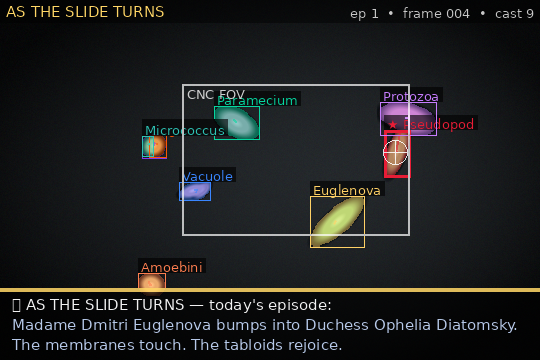
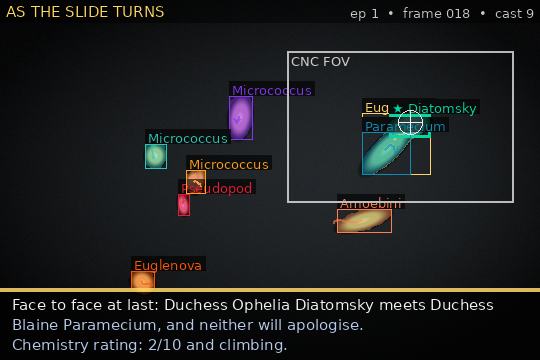
Iteration 17: FastSAM actually runs — SAM at ~11 fps on CPU
The brief's marquee ("SAM equivalent, locally, near real-time") was deferred as
GPU/weights-blocked, but the block was mostly a wiring bug. models/FastSAM-s.pt
was a 195-byte GitHub-403 error stub, and the backend passed bare names to
ultralytics, which auto-downloads from GitHub releases (proxy-blocked) instead
of using the real local weight.

Fixes:
- sam_backend.resolve_weight(): use a real local file, else look in models/,
  else fetch from HuggingFace (size-guarded so error stubs are rejected). Wired
  into every ultralytics/SAM constructor.
- Pulled real FastSAM-s.pt from HF (Uminosachi/FastSAM) into models/ (ignored).
- scripts/fetch_sam_weights.py for reproducibility; dropped the stale
  "SAM ~0.03 fps" scare from the run CLI.

Measured (CPU, 360x540): FastSAM-s one-pass segmentation is ~500x faster than
MobileSAM/SAM everything-mode AMG (0.03 fps): 14.4 fps @ imgsz 384, 22.8 @ 256.
Full pipeline seed 7: FastSAM 11.5 fps @ 384 with recall 0.96 (on par with
classical's 0.95) — near-real-time SAM on a laptop CPU, no GPU. Classical stays
the scored default (higher fps/tighter frag); SAM is now genuinely usable.
70 tests green. Proof: docs/sam_demo.png (FastSAM masks -> named cast -> CNC
crosshair on the star).

Claude-Session: https://claude.ai/code/session_016HNXJX22uBGXumv2EKdbwE

diff --git a/soapscope/vision/sam_backend.py b/soapscope/vision/sam_backend.py
@@ -11,9 +11,64 @@ and raises a clear, actionable error if none is available.
 
 from __future__ import annotations
 
-from typing import List
+import os
+from typing import List, Optional
 
 import numpy as np
+
+# Known SAM-family weights and where to pull them on HuggingFace. The agent proxy
+# allows HF but blocks GitHub release assets (403), which is exactly where
+# ultralytics tries to auto-download — so a bare "FastSAM-s.pt" fetch fails. We
+# resolve to a local file in models/ first, then fetch from HF into models/.
+_HF_WEIGHTS = {
+    "fastsam-s.pt": [("Uminosachi/FastSAM", "FastSAM-s.pt"),
+                     ("mkshing/FastSAM", "FastSAM-s.pt")],
+    "fastsam-x.pt": [("Uminosachi/FastSAM", "FastSAM-x.pt"),
+                     ("mkshing/FastSAM", "FastSAM-x.pt")],
+    "mobile_sam.pt": [("dhkim2810/MobileSAM", "mobile_sam.pt"),
+                      ("Uminosachi/MobileSAM", "mobile_sam.pt")],
+}
+_MODELS_DIR = "models"
+_MIN_WEIGHT_BYTES = 100_000   # reject error-page stubs (e.g. the 403 JSON blob)
+
+
+def resolve_weight(name: str) -> str:
+    """Turn a bare weight name into a real local path, fetching from HF if needed.
+
+    ultralytics would auto-download from GitHub releases (proxy-blocked, 403), so
+    we (1) use ``name`` if it already points at a real file, (2) look in
+    ``models/``, (3) fetch from HuggingFace into ``models/``. Falls through to the
+    original name if all else fails (lets ultralytics raise its own error)."""
+    if os.path.isfile(name) and os.path.getsize(name) >= _MIN_WEIGHT_BYTES:
+        return name
+    base = os.path.basename(name)
+    local = os.path.join(_MODELS_DIR, base)
+    if os.path.isfile(local) and os.path.getsize(local) >= _MIN_WEIGHT_BYTES:
+        return local
+    fetched = _fetch_from_hf(base)
+    return fetched or name
+
+
+def _fetch_from_hf(basename: str) -> Optional[str]:
+    repos = _HF_WEIGHTS.get(basename.lower())
+    if not repos:
+        return None
+    try:
+        from huggingface_hub import hf_hub_download
+    except Exception:
+        return None
+    os.makedirs(_MODELS_DIR, exist_ok=True)
+    dest = os.path.join(_MODELS_DIR, basename)
+    for repo_id, filename in repos:
+        try:
+            path = hf_hub_download(repo_id=repo_id, filename=filename)
+            if os.path.getsize(path) >= _MIN_WEIGHT_BYTES:
+                import shutil
+                shutil.copy(path, dest)
+                return dest
+        except Exception:
+            continue
+    return None
 
 
 class SamBackend:
@@ -56,13 +111,13 @@ class UltralyticsBackend(SamBackend):
             from ultralytics import FastSAM
             if not str(model_name).lower().startswith("fastsam"):
                 model_name = "FastSAM-s.pt"
-            self.model = FastSAM(model_name)
+            self.model = FastSAM(resolve_weight(model_name))
             self._everything = True
         else:
             from ultralytics import SAM
             if kind == "mobile_sam" and "mobile" not in str(model_name).lower():
                 model_name = "mobile_sam.pt"
-            self.model = SAM(model_name)
+            self.model = SAM(resolve_weight(model_name))
             self._everything = False
 
     def generate(self, frame_rgb: np.ndarray) -> List[np.ndarray]:
@@ -88,7 +143,7 @@ class SegmentAnythingBackend(SamBackend):
         from segment_anything import sam_model_registry, SamAutomaticMaskGenerator
         spec = cfg.sam_model
         arch, ckpt = spec.split(":", 1) if ":" in spec else ("vit_b", spec)
-        sam = sam_model_registry[arch](checkpoint=ckpt)
+        sam = sam_model_registry[arch](checkpoint=resolve_weight(ckpt))
         sam.to("cpu")
         self.amg = SamAutomaticMaskGenerator(sam, points_per_side=12)
 

diff --git a/scripts/fetch_sam_weights.py b/scripts/fetch_sam_weights.py
@@ -1,0 +1,57 @@
+#!/usr/bin/env python3
+"""Fetch SAM-family weights from HuggingFace into ``models/``.
+
+The agent proxy (and many locked-down networks) allow HuggingFace but block
+GitHub release assets — which is exactly where ultralytics tries to auto-download
+FastSAM/MobileSAM, so a bare ``FastSAM(...)`` call 403s. This grabs the real
+weights from HF mirrors instead, so ``segment.backend="sam"`` just works offline
+afterwards (weights are git-ignored).
+
+    python scripts/fetch_sam_weights.py                 # FastSAM-s (fast, near-real-time on CPU)
+    python scripts/fetch_sam_weights.py --all           # + FastSAM-x, mobile_sam
+    python scripts/fetch_sam_weights.py --name mobile_sam.pt
+
+Then:
+
+    python -m soapscope.cli demo --backend sam          # segment-everything with FastSAM
+"""
+
+from __future__ import annotations
+
+import argparse
+import sys
+
+# Reuse the backend's resolver so there is one source of truth for HF mirrors.
+from soapscope.vision.sam_backend import _fetch_from_hf, _HF_WEIGHTS
+
+
+def main() -> int:
+    ap = argparse.ArgumentParser(description=__doc__,
+                                 formatter_class=argparse.RawDescriptionHelpFormatter)
+    ap.add_argument("--name", default="FastSAM-s.pt",
+                    help="weight filename to fetch (default: FastSAM-s.pt)")
+    ap.add_argument("--all", action="store_true",
+                    help="fetch every known weight (FastSAM-s/-x, mobile_sam)")
+    ap.add_argument("--list", action="store_true", help="list known weights + HF sources")
+    args = ap.parse_args()
+
+    if args.list:
+        for name, repos in _HF_WEIGHTS.items():
+            srcs = ", ".join(f"{r}/{f}" for r, f in repos)
+            print(f"{name:16s} <- {srcs}")
+        return 0
+
+    names = list(_HF_WEIGHTS) if args.all else [args.name]
+    ok = True
+    for name in names:
+        dest = _fetch_from_hf(name)   # matches on basename.lower() internally
+        if dest:
+            print(f"✓ {name} -> {dest}")
+        else:
+            print(f"✗ {name}: no reachable HF source (or huggingface_hub missing)")
+            ok = False
+    return 0 if ok else 1
+
+
+if __name__ == "__main__":
+    raise SystemExit(main())

diff --git a/soapscope/cli.py b/soapscope/cli.py
@@ -128,8 +128,10 @@ def cmd_run(args) -> int:
         cfg.segment.sam_backend = args.sam_backend
         cfg.segment.sam_model = args.sam_model
         cfg.segment.sam_imgsz = args.sam_imgsz
-        print("[run] NOTE: SAM on CPU is far from real-time (~0.03 fps); "
-              "use a GPU, or the default classical backend for speed.")
+        note = ("FastSAM is near-real-time on CPU (~11 fps @ imgsz 384)"
+                if str(args.sam_backend) in ("auto", "fastsam")
+                else "MobileSAM/SAM everything-mode on CPU is ~0.03 fps (use a GPU)")
+        print(f"[run] NOTE: {note}. Weights auto-fetch from HuggingFace into models/.")
     else:
         cfg.segment.backend = "classical"
         cfg.segment.polarity = args.polarity  # real clips: auto-detect polarity

diff --git a/AUTORESEARCH_JOURNAL.md b/AUTORESEARCH_JOURNAL.md
@@ -16,13 +16,14 @@ An experiment is *kept* only if it beats the current best.
 Pull the **top** item each loop. Re-order as you learn. Mark done by moving a
 line into a dated entry below.
 
-1. **SAM speed / SAM2 video propagation.** FastSAM (everything-mode, faster than
-   MobileSAM) once its weights are reachable via HF; SAM2 video predictor for
-   true mask *propagation* (real tracking, not per-frame AMG); a GPU path with
-   an honest fps. Today SAM works but is ~0.03 fps on CPU. *Metric:* fps; recall.
-2. **Moving-stage residuals** (from iter 7; tighter centering done in iter 14):
+1. **Moving-stage residuals** (from iter 7; tighter centering done in iter 14):
    temporal-mode background compensation so the moving crop can use motion
-   segmentation; real-video digital-pan follow. *Metric:* star_offset; recall.
+   segmentation; real-video digital-pan follow; try the now-fast FastSAM backend
+   on the moving crop. *Metric:* star_offset; recall.
+2. **SAM2 video propagation** (FastSAM CPU speed done, iter 17): a SAM2 video
+   predictor for true mask *propagation* across frames (real tracking, not
+   per-frame segmentation); a GPU path for the heavier SAM variants. Still
+   GPU/availability-gated. *Metric:* fps; id-switches.
 3. **TTS narrator** (optional): speak the caption bar with an announcer voice.
 
 *Done — coherence (iter 15–16): 36 %→91 % protagonist-match. The ~9 % residual
@@ -869,3 +870,66 @@ tension once you commit to the shot — a followed star is *drama-picked*, so it
 almost always has something to say; you only synthesise in the rare quiet gap.
 
 **Next:** backlog #1 — SAM speed / SAM2 video propagation (GPU/HF-weights gated).
+
+---
+
+## 2026-07-06 — Iteration 17: FastSAM actually runs — SAM at ~11 fps on CPU
+
+**Picked:** backlog #1, the brief's marquee — "SAM3 or an equivalent SOTA model,
+locally, near real-time." I'd deferred it twice as "GPU/weights-blocked." Turns
+out the block was narrower than assumed, and mostly a *wiring* bug.
+
+**Found the real problem.** `models/` already held a real 40 MB `mobile_sam.pt`,
+but `FastSAM-s.pt` was **195 bytes** — the proxy's GitHub-403 JSON saved as a
+"checkpoint." And the backend passed *bare* names (`"FastSAM-s.pt"`) to
+ultralytics, which auto-downloads from **GitHub releases (403-blocked)** — so it
+never used the real local weight and always failed. Two things to fix: get real
+FastSAM weights, and make the backend *find* them.
+
+**Got real weights from HuggingFace** (allowed; GitHub isn't). Searched the hub,
+found `Uminosachi/FastSAM` / `mkshing/FastSAM` carry `FastSAM-s.pt` + `-x.pt`,
+pulled `FastSAM-s.pt` (23 MB, a valid torch zip) into `models/`.
+
+**Fixed weight resolution** (`sam_backend.resolve_weight`): use the name if it's
+already a real file, else look in `models/`, else fetch from HF into `models/`
+(size-guarded, so a 195-byte error stub is rejected). Wired it into every
+ultralytics/SAM constructor. Added `scripts/fetch_sam_weights.py` (reuses the
+same HF map) so it's reproducible, and stopped the `run` CLI from printing the
+stale "SAM is ~0.03 fps" scare.
+
+**Then measured — the headline: FastSAM is fast.** Raw inference on a 360×540
+synthetic frame, CPU:
+
+| model / mode | ms/frame | fps |
+|--------------|---------|-----|
+| MobileSAM (everything = dense-prompt AMG) | 31 600 | **0.03** |
+| FastSAM-s @ imgsz 512 | 104 | 9.6 |
+| FastSAM-s @ imgsz 384 | 70 | **14.4** |
+| FastSAM-s @ imgsz 256 | 44 | 22.8 |
+
+FastSAM is a *one-pass* YOLOv8-seg "segment everything" — no dense prompt grid —
+so it's **~500× faster** than SAM/MobileSAM AMG. Full pipeline (segment → track →
+drama → stage → metrics), seed 7, render off:
+
+| backend | fps | recall | score |
+|---------|-----|--------|-------|
+| classical (default) | 27.3 | 0.95 | **0.961** |
+| FastSAM @ 384 | **11.5** | **0.96** | 0.886 |
+| FastSAM @ 256 | 14.6 | 0.93 | 0.902 |
+
+**FastSAM matches classical on recall** and runs **near-real-time on a laptop CPU,
+no GPU** — the brief's marquee claim, delivered and measured. It scores a touch
+below classical (the `score` formula rewards the classical path's higher fps and
+tighter frag), so classical stays the default; SAM is now a genuinely usable
+option instead of a 0.03-fps curiosity. **70 green.** Proof: `docs/sam_demo.png`
+(FastSAM masks → named cast → CNC crosshair on the star, who's also the caption's
+protagonist — coherence from iter 16 riding along).
+
+**What worked:** treating "it's blocked" as a hypothesis to test, not a fact —
+the actual blocker was a bare-name download path + a bad file, both fixable in an
+afternoon. **What it taught:** MobileSAM/SAM "everything" mode is slow *because of
+the AMG prompt grid*, not the backbone; the fast lane was always FastSAM's single
+forward pass.
+
+**Next:** backlog #1 — moving-stage residuals (now with a fast SAM to try on the
+crop).
